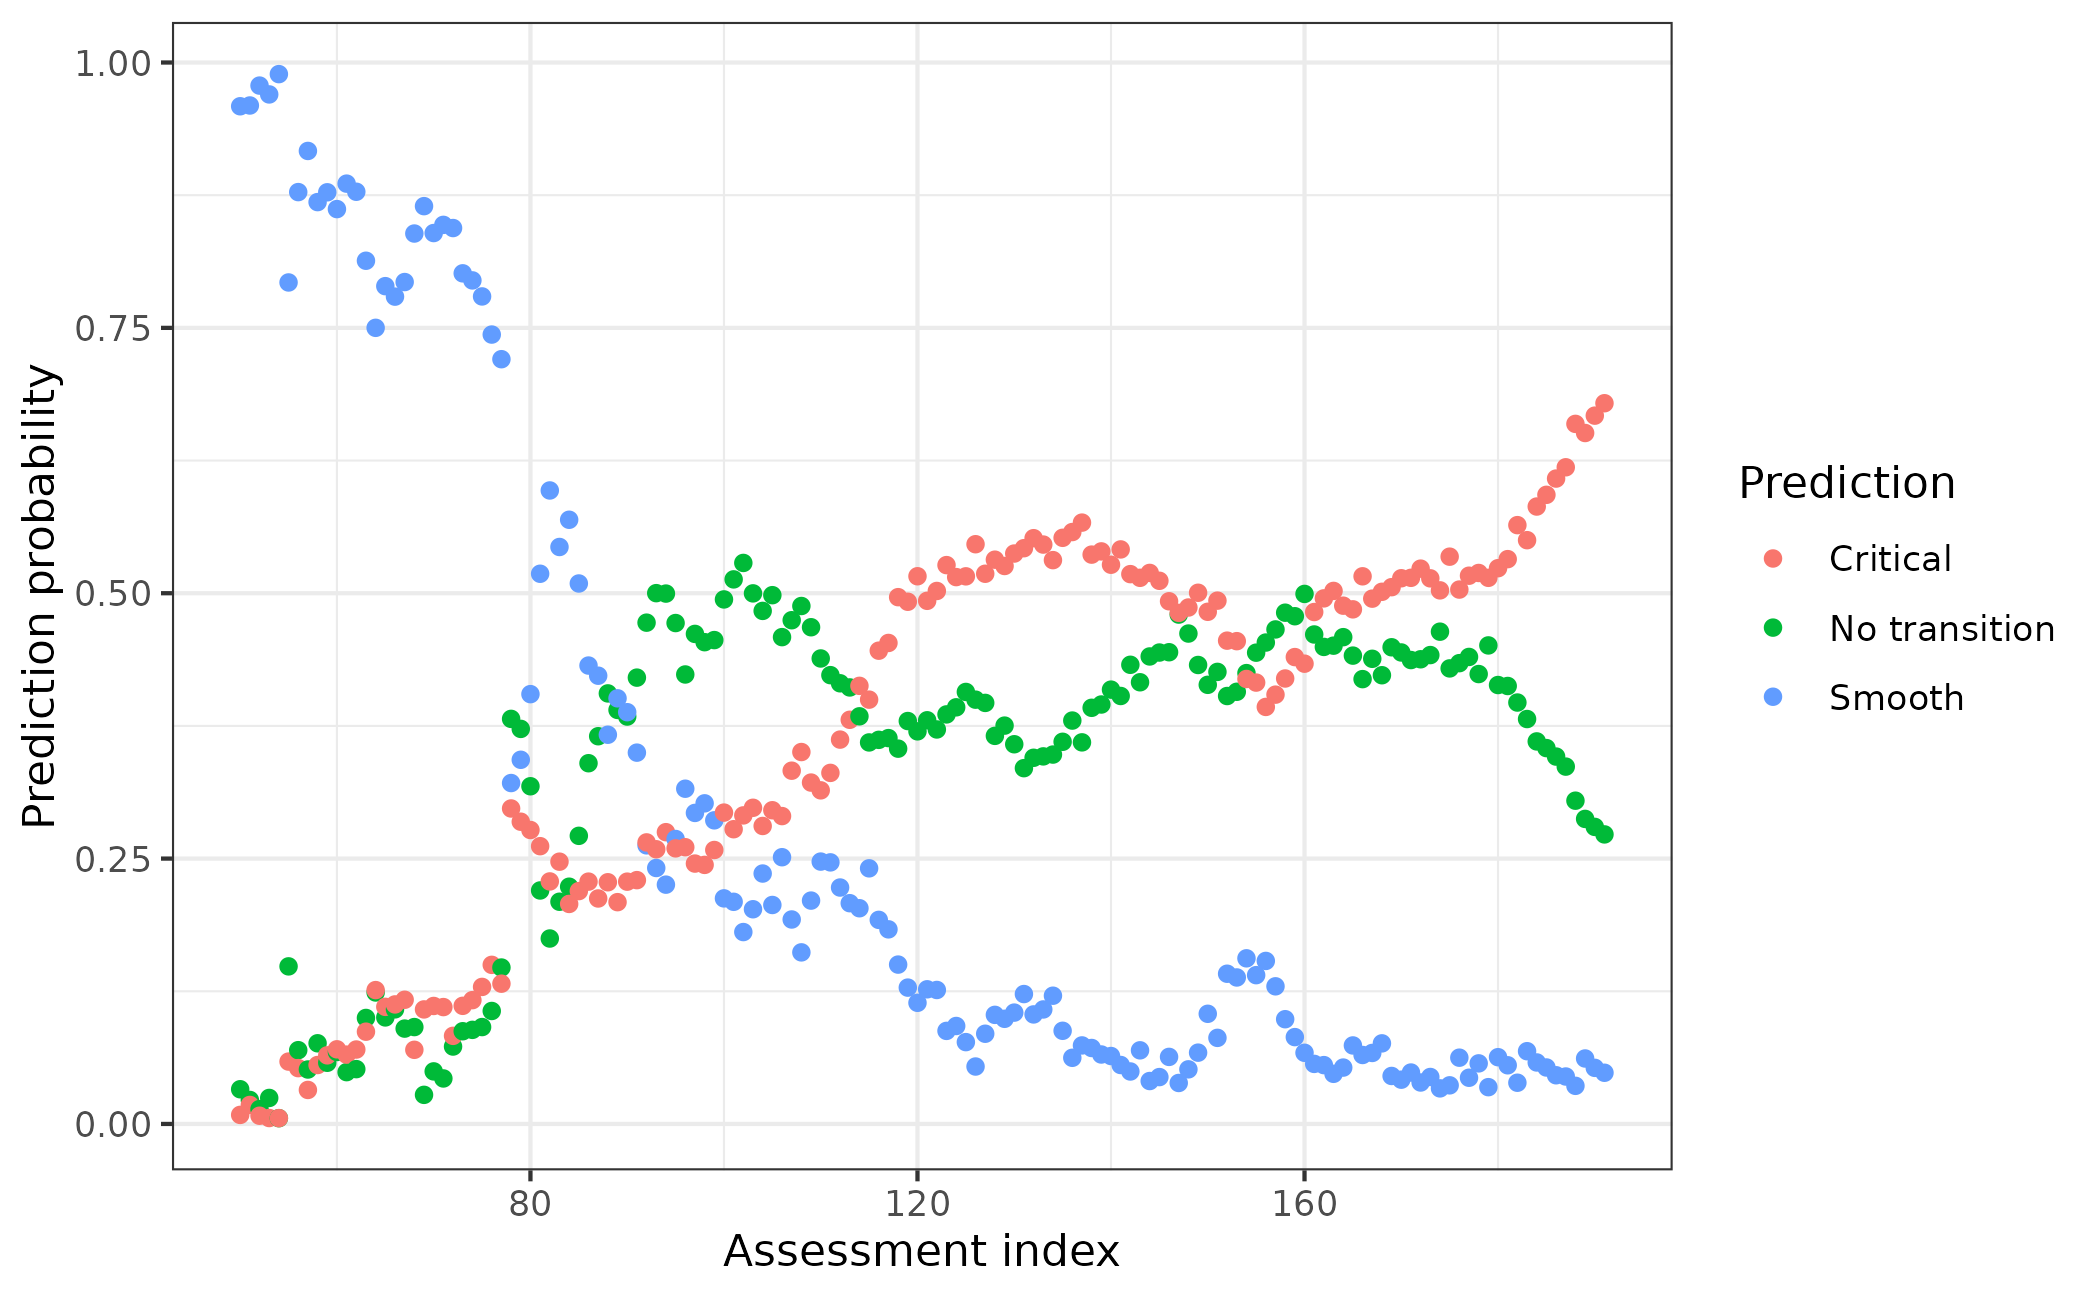
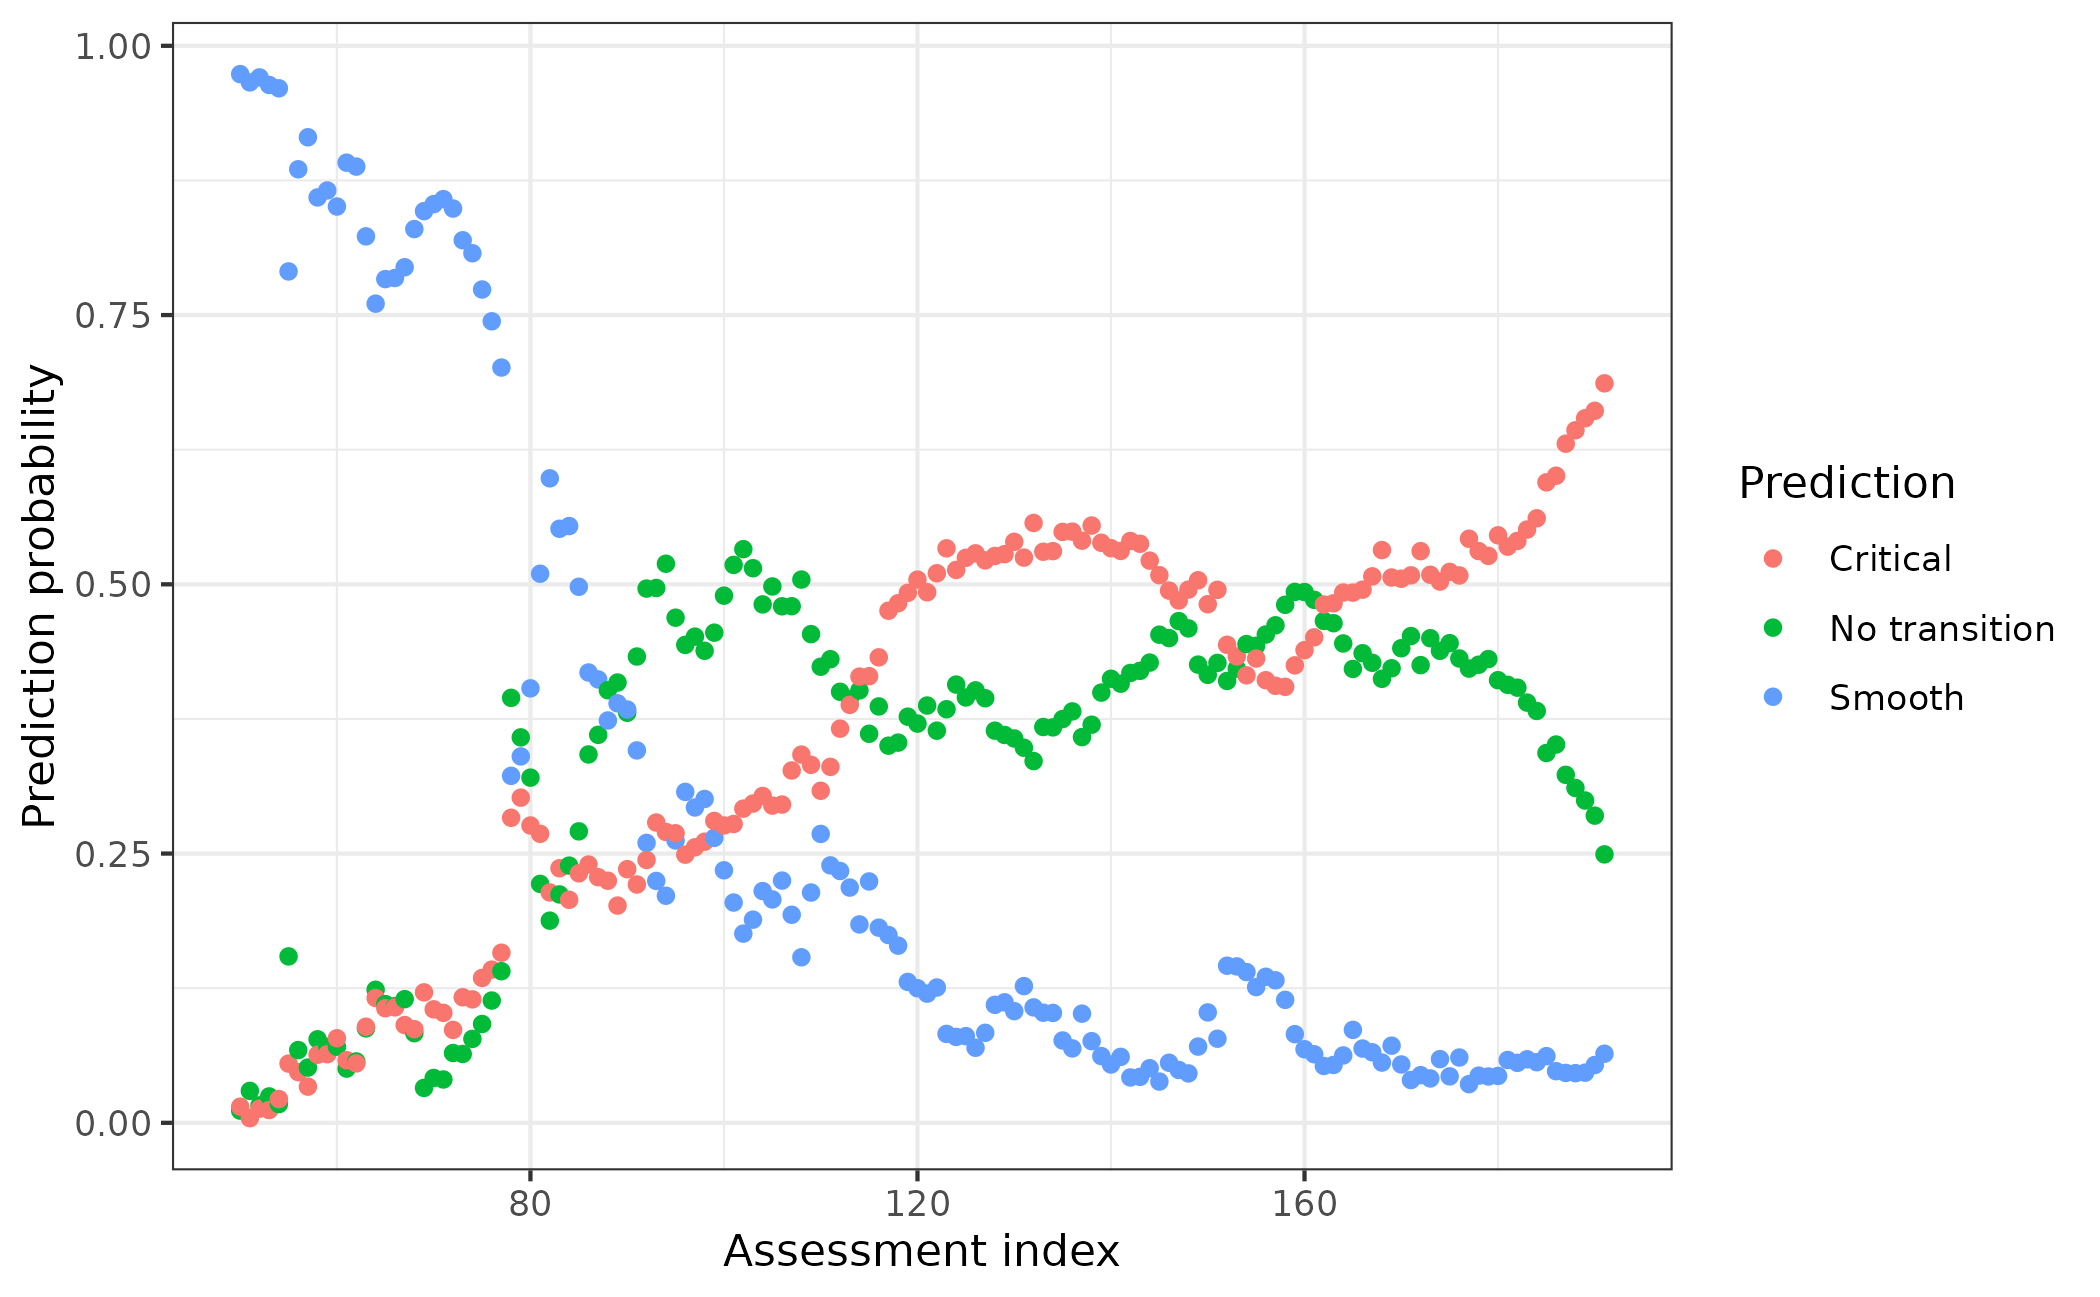
Deploying to gh-pages from @ duncanobrien/EWSmethods@537d1ecb45fbbbbcf54cf264ae595dd65140db5a 🚀

diff --git a/articles/ews_assessments.html b/articles/ews_assessments.html
@@ -464,7 +464,7 @@ Rolling (A) vs expanding (C) window concept diagram. Panels B and D introduce th
 <span>  </span>
 <span>  <span class="op">}</span><span class="op">)</span></span>
 <span></span>
-<span><span class="va">multi_spp_data</span> <span class="op">&lt;-</span> <span class="fu"><a href="https://rdrr.io/r/base/cbind.html" class="external-link">cbind</a></span><span class="op">(</span><span class="st">"time"</span> <span class="op">=</span> <span class="fu"><a href="https://rdrr.io/r/base/seq.html" class="external-link">seq</a></span><span class="op">(</span><span class="fu"><a href="https://rdrr.io/r/base/as.Date.html" class="external-link">as.Date</a></span><span class="op">(</span><span class="st">'2000/01/01'</span><span class="op">)</span>, <span class="fu"><a href="https://rdrr.io/r/base/as.Date.html" class="external-link">as.Date</a></span><span class="op">(</span><span class="st">'2004/12/01'</span><span class="op">)</span>, by <span class="op">=</span> <span class="st">"month"</span><span class="op">)</span>, <span class="fu"><a href="https://rdrr.io/r/base/as.data.frame.html" class="external-link">as.data.frame</a></span><span class="op">(</span><span class="va">spp_data</span><span class="op">)</span><span class="op">)</span></span>
+<span><span class="va">multi_spp_data</span> <span class="op">&lt;-</span> <span class="fu"><a href="https://rdrr.io/r/base/cbind.html" class="external-link">cbind</a></span><span class="op">(</span><span class="st">"time"</span> <span class="op">=</span> <span class="fu"><a href="https://rdrr.io/r/base/seq.html" class="external-link">seq</a></span><span class="op">(</span><span class="fu">base</span><span class="fu">::</span><span class="fu"><a href="https://rdrr.io/r/base/as.Date.html" class="external-link">as.Date</a></span><span class="op">(</span><span class="st">'2000/01/01'</span><span class="op">)</span>, <span class="fu">base</span><span class="fu">::</span><span class="fu"><a href="https://rdrr.io/r/base/as.Date.html" class="external-link">as.Date</a></span><span class="op">(</span><span class="st">'2004/12/01'</span><span class="op">)</span>, by <span class="op">=</span> <span class="st">"month"</span><span class="op">)</span>, <span class="fu"><a href="https://rdrr.io/r/base/as.data.frame.html" class="external-link">as.data.frame</a></span><span class="op">(</span><span class="va">spp_data</span><span class="op">)</span><span class="op">)</span></span>
 <span>  </span>
 <span><span class="fu"><a href="https://rdrr.io/r/graphics/matplot.html" class="external-link">matplot</a></span><span class="op">(</span>x <span class="op">=</span> <span class="va">multi_spp_data</span><span class="op">$</span><span class="va">time</span>, y <span class="op">=</span> <span class="va">multi_spp_data</span><span class="op">[</span>,<span class="fl">2</span><span class="op">:</span><span class="fl">6</span><span class="op">]</span>, type <span class="op">=</span> <span class="st">"l"</span>, xlab <span class="op">=</span> <span class="st">"Date"</span>, ylab <span class="op">=</span> <span class="st">"Density"</span>,  main <span class="op">=</span> <span class="st">"Seasonal five species community"</span><span class="op">)</span></span></code></pre></div>
 <p><img src="ews_assessments_files/figure-html/create_seasonal-1.png" width="1050"></p>

diff --git a/articles/using_ewsnet.html b/articles/using_ewsnet.html
@@ -167,7 +167,7 @@
 <span></span>
 <span><span class="va">ewsnet_prediction</span></span>
 <span><span class="co">#&gt;                  pred no_trans_prob smooth_trans_prob critical_trans_prob</span></span>
-<span><span class="co">#&gt; 1 Critical Transition     0.2736585        0.04656814           0.6797735</span></span></code></pre></div>
+<span><span class="co">#&gt; 1 Critical Transition     0.2726688        0.04490793           0.6824234</span></span></code></pre></div>
 <div class="section level4">
 <h4 id="interpreting-ewsnet">Interpreting EWSNet<a class="anchor" aria-label="anchor" href="#interpreting-ewsnet"></a>
 </h4>
